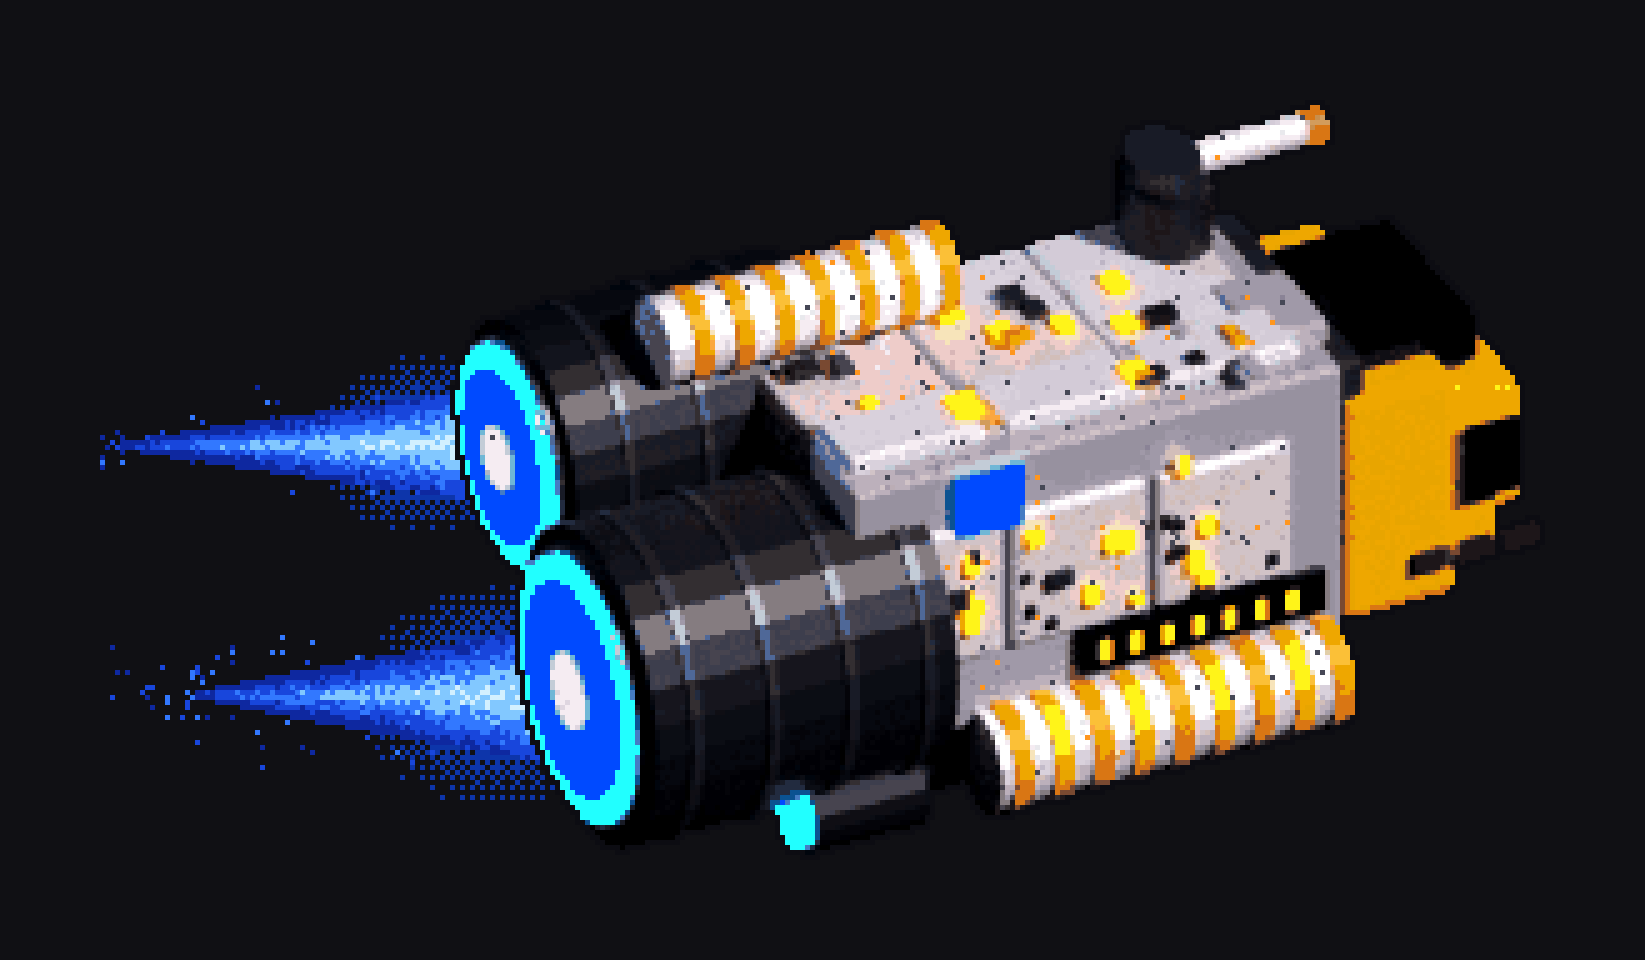
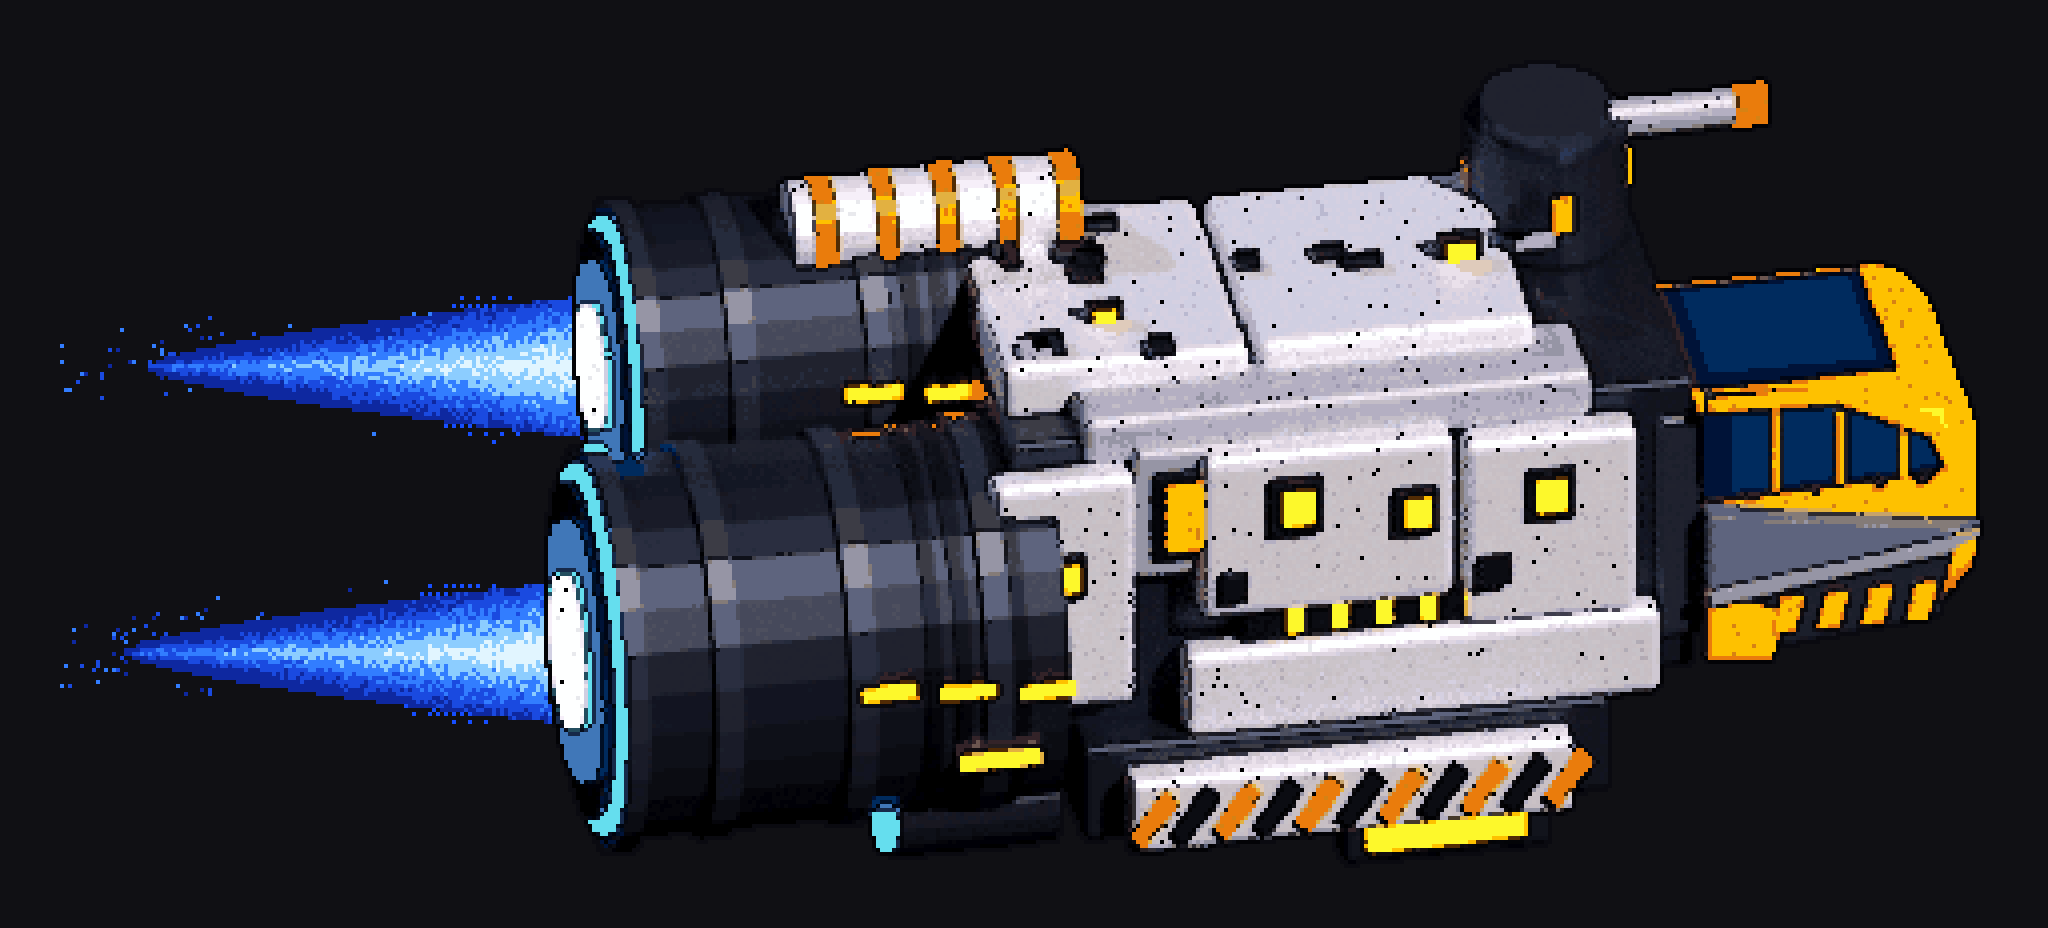
Hero ship rebuilt as three modules (cabin, mid hull, engines) with a shared camera; module review sheets
Claude-Session: https://claude.ai/code/session_01HcaWyD8ebB2wdmAhZqz26a

diff --git a/tools/assets/blender/ship_modules.py b/tools/assets/blender/ship_modules.py
@@ -1,0 +1,136 @@
+# blender -b -P ship_modules.py -- outdir
+# Hero freighter built as three modules (cabin, mid hull, rear engines) with ONE shared camera, so renders overlay exactly.
+import bpy, sys, math, random, bmesh
+OUT = sys.argv[sys.argv.index('--') + 1]
+bpy.ops.wm.read_factory_settings(use_empty=True)
+sc = bpy.context.scene; sc.render.engine = 'CYCLES'; sc.cycles.device = 'CPU'; sc.cycles.samples = 40; sc.cycles.use_denoising = False
+sc.view_settings.view_transform = 'Standard'; sc.render.film_transparent = True; sc.render.image_settings.color_mode = 'RGBA'
+sc.world = bpy.data.worlds.new('w'); sc.world.use_nodes = True; sc.world.node_tree.nodes['Background'].inputs[1].default_value = 0.0
+random.seed(21)
+def hexc(h): h = h.lstrip('#'); return tuple(pow(int(h[i:i + 2], 16) / 255, 2.2) for i in (0, 2, 4))
+def mat(col, metal=0.4, rough=0.55, emit=None, es=0.0):
+    m = bpy.data.materials.new('m'); m.use_nodes = True; b = m.node_tree.nodes['Principled BSDF']
+    b.inputs['Base Color'].default_value = (*(hexc(col) if isinstance(col, str) else col), 1); b.inputs['Metallic'].default_value = metal; b.inputs['Roughness'].default_value = rough
+    if emit: b.inputs['Emission Color'].default_value = (*hexc(emit), 1); b.inputs['Emission Strength'].default_value = es
+    return m
+def glow(c, s=6): return mat(c, 0, 0.3, c, s)
+PLATE = mat('#d9d9e6', 0.25, 0.6); PLATE2 = mat('#b3b3c6', 0.3, 0.6); GUN = mat('#1d1f28', 0.7, 0.45); GUN2 = mat('#343847', 0.75, 0.4); GUN3 = mat('#4a5062', 0.75, 0.35)
+YEL = mat('#f4c20f', 0.15, 0.5); YEL2 = mat('#d98c10', 0.15, 0.5); STEELB = mat('#7a88a6', 0.5, 0.4); BLK = mat('#0b0b11', 0.3, 0.6); ORG = mat('#ff8a14', 0.2, 0.5)
+AMB = glow('#ff8a14', 5); AMB2 = glow('#ffb43a', 4); RIM = glow('#2a8cff', 3.2); CORE = glow('#a8dcff', 5); GLASS = mat('#0b1826', 0.9, 0.1, '#123a60', 0.25)
+MOD = {'cabin': [], 'mid': [], 'eng': []}; cur = ['mid']
+def reg(o): MOD[cur[0]].append(o); return o
+def box(loc, size, m, bev=0.05, rot=(0, 0, 0)):
+    bpy.ops.mesh.primitive_cube_add(location=loc, rotation=rot); o = bpy.context.object; o.scale = [s / 2 for s in size]; bpy.ops.object.transform_apply(scale=True)
+    if bev: md = o.modifiers.new('b', 'BEVEL'); md.width = bev; md.segments = 3
+    o.data.materials.append(m); return reg(o)
+def cyl(loc, r, d, m, rot=(0, math.pi / 2, 0), v=28, r2=None):
+    if r2 is None: bpy.ops.mesh.primitive_cylinder_add(location=loc, radius=r, depth=d, vertices=v, rotation=rot)
+    else: bpy.ops.mesh.primitive_cone_add(location=loc, radius1=r, radius2=r2, depth=d, vertices=v, rotation=rot)
+    o = bpy.context.object; o.data.materials.append(m); return reg(o)
+def sph(loc, radii, m, seg=32):
+    bpy.ops.mesh.primitive_uv_sphere_add(location=loc, radius=1, segments=seg, ring_count=seg // 2); o = bpy.context.object; o.scale = radii; o.data.materials.append(m); bpy.ops.object.shade_smooth(); return reg(o)
+def wedge(loc, size, top, m, bev=0.04):
+    bpy.ops.mesh.primitive_cube_add(location=loc); o = bpy.context.object; o.scale = [s / 2 for s in size]; bpy.ops.object.transform_apply(scale=True)
+    me = o.data; bm = bmesh.new(); bm.from_mesh(me)
+    for v in bm.verts:
+        if v.co.z > 0: v.co.x *= top[0]; v.co.y *= top[1]
+    bm.to_mesh(me); bm.free()
+    if bev: md = o.modifiers.new('b', 'BEVEL'); md.width = bev; md.segments = 2
+    o.data.materials.append(m); return reg(o)
+def prism(pts, y0, y1, m, bev=0.02):
+    """extrude a side-view (x,z) polygon along Y from y0 to y1"""
+    me = bpy.data.meshes.new('pr'); o = bpy.data.objects.new('pr', me); bpy.context.collection.objects.link(o)
+    bm = bmesh.new(); a = [bm.verts.new((x, y0, z)) for x, z in pts]; b = [bm.verts.new((x, y1, z)) for x, z in pts]
+    bm.faces.new(a[::-1]); bm.faces.new(b)
+    for i in range(len(pts)): j = (i + 1) % len(pts); bm.faces.new((a[i], a[j], b[j], b[i]))
+    bmesh.ops.recalc_face_normals(bm, faces=bm.faces); bm.to_mesh(me); bm.free(); me.materials.append(m)
+    if bev: md = o.modifiers.new('b', 'BEVEL'); md.width = bev; md.segments = 2
+    return reg(o)
+def torus(loc, major, minor, m, rot, scale=(1, 1, 1)):
+    bpy.ops.mesh.primitive_torus_add(major_radius=major, minor_radius=minor, location=loc, rotation=rot, major_segments=40, minor_segments=10); o = bpy.context.object; o.scale = scale; o.data.materials.append(m); return reg(o)
+def window(x, y, z, w=0.3, h=0.3, face='-y'):
+    """dark recessed square with amber light (like the reference's small windows)"""
+    box((x, y, z), (w, 0.07, h), BLK, 0.01); box((x, y - 0.03, z), (w * 0.6, 0.05, h * 0.6), AMB, 0.005)
+def slab(loc, size, m=PLATE, bev=0.07): return box(loc, size, m, bev)
+
+# ================= ENGINES (rear) =================
+cur[0] = 'eng'
+def engine(cx, cy, cz, R, L, big=True):
+    cyl((cx, cy, cz), R, L, GUN2)                                   # barrel
+    for k in range(3): cyl((cx - L / 2 + 0.55 + k * 0.85, cy, cz), R * 1.04, 0.16, GUN3)           # three wide seam rings
+    for k in range(4): cyl((cx + L / 2 - 0.85 + k * 0.18, cy, cz), R * 1.02, 0.1, GUN)             # ridged collar near the hull
+    fx = cx - L / 2
+    cyl((fx - 0.03, cy, cz), R * 1.06, 0.14, GUN3)                  # bezel
+    cyl((fx - 0.12, cy, cz), R * 0.97, 0.05, RIM)                   # glowing rim
+    cyl((fx - 0.17, cy, cz), R * 0.89, 0.05, mat('#06101e', 0.6, 0.4))
+    cyl((fx - 0.22, cy, cz), R * 0.68, 0.05, glow('#1a4ee0', 2.6))
+    cyl((fx - 0.26, cy, cz), R * 0.4, 0.05, CORE)
+    for k in range(3):                                              # amber slots on the barrel side facing the camera
+        box((cx + 0.2 + k * 0.5, cy - R * 1.01, cz + 0.12 - k * 0.04), (0.34, 0.05, 0.07), AMB, 0.005)
+    box((cx + 0.9, cy - R * 1.0, cz - 0.35), (0.5, 0.05, 0.06), AMB2, 0.005)
+engine(-2.85, -0.62, -0.18, 1.0, 2.7)
+engine(-2.55, 1.05, 0.58, 0.8, 2.3)
+# pylon between engines and hull
+cyl((-1.1, 0.2, 0.35), 0.62, 0.9, GUN2, v=20); cyl((-1.1, 0.2, 0.35), 0.66, 0.1, GUN3, v=20)
+box((-0.9, -0.55, 0.62), (0.5, 0.12, 0.4), PLATE2, 0.03); box((-0.9, -0.62, 0.62), (0.3, 0.06, 0.24), AMB, 0.01)
+cyl((-2.0, -1.0, -1.1), 0.24, 1.0, GUN2, v=16); cyl((-2.55, -1.0, -1.1), 0.2, 0.1, RIM, v=16)   # little lower thruster
+
+# ================= MID HULL =================
+cur[0] = 'mid'
+box((0.4, 0.05, 0.1), (4.3, 2.0, 1.7), GUN2, 0.05); box((0.3, -0.3, -1.0), (3.3, 1.9, 0.55), GUN2, 0.05)                    # dark core visible in the gaps
+# top deck: two big plates + a smaller step
+slab((-0.95, 0.2, 1.08), (1.55, 1.7, 0.32)); slab((0.75, 0.2, 1.08), (1.75, 1.7, 0.32)); slab((0.3, -0.72, 0.95), (3.2, 0.62, 0.28), PLATE2)
+window(-1.0, -0.2, 1.24, 0.22, 0.22); box((-1.0, 0.3, 1.25), (0.2, 0.2, 0.05), BLK, 0.01); window(1.3, 0.1, 1.24, 0.28, 0.28)
+# monitor frame
+box((-0.55, -1.05, 0.55), (0.9, 0.14, 0.75), PLATE2, 0.05); box((-0.55, -1.13, 0.55), (0.66, 0.06, 0.52), GUN, 0.02); box((-0.55, -1.17, 0.55), (0.52, 0.04, 0.38), mat('#6a4a22', 0.2, 0.5, '#ff8a14', 1.6), 0.01)
+# side plates (camera side), staggered
+slab((-1.45, -1.06, 0.15), (0.9, 0.24, 1.35), PLATE, 0.07); slab((0.2, -1.1, 0.42), (1.6, 0.24, 0.95), PLATE, 0.07); slab((1.6, -1.08, 0.28), (1.1, 0.24, 1.1), PLATE, 0.07)
+window(-1.45, -1.22, 0.3, 0.24, 0.24); window(0.0, -1.25, 0.6, 0.32, 0.32); window(0.75, -1.25, 0.5, 0.26, 0.26); window(1.6, -1.2, 0.5, 0.3, 0.3)
+box((1.25, -1.25, 0.1), (0.18, 0.05, 0.18), BLK, 0.01); box((-0.4, -1.25, 0.15), (0.16, 0.05, 0.16), BLK, 0.01)
+# lower long plate + dark window strip + hazard plate
+slab((0.8, -1.1, -0.5), (3.0, 0.24, 0.5), PLATE, 0.07)
+box((0.9, -1.1, -0.12), (2.4, 0.1, 0.22), GUN, 0.02)
+for k in range(8): box((0.0 + k * 0.28, -1.17, -0.12), (0.1, 0.04, 0.14), AMB2 if k % 3 else AMB, 0.004)
+slab((0.3, -1.3, -1.05), (2.8, 0.32, 0.42), PLATE, 0.05)
+for k in range(11):
+    box((-0.95 + k * 0.26, -1.48, -1.05), (0.12, 0.03, 0.34), ORG if k % 2 == 0 else BLK, 0.003, rot=(0, 0.7, 0))
+box((0.9, -0.95, -1.28), (1.3, 0.9, 0.4), GUN2, 0.05); box((0.9, -1.4, -1.26), (1.0, 0.08, 0.28), mat('#ff9a1a', 0.1, 0.4, '#ff8a14', 3.0), 0.02)
+# turret + gun, striped rod, hazard cylinder
+cyl((2.0, 0.85, 1.28), 0.5, 0.6, GUN2, v=24, rot=(0, 0, 0)); cyl((2.0, 0.85, 1.62), 0.4, 0.14, GUN3, v=24, rot=(0, 0, 0))
+for k in range(4): box((2.0 + 0.45 * math.cos(k * 1.57), 0.85 + 0.45 * math.sin(k * 1.57), 1.28), (0.14, 0.14, 0.2), YEL, 0.01)
+cyl((2.75, 0.85, 1.55), 0.1, 1.0, PLATE2, v=12); cyl((3.28, 0.85, 1.55), 0.11, 0.2, mat('#d8242a', 0.2, 0.5, '#d8242a', 1.6), v=12)
+cyl((-1.9, 0.9, 1.35), 0.26, 1.7, PLATE, v=20)
+for k in range(5): cyl((-2.55 + k * 0.38, 0.9, 1.35), 0.275, 0.14, ORG, v=20)
+for i in range(16): box((random.uniform(-1.5, 1.8), random.uniform(-0.6, 0.9), 1.27), (random.uniform(0.08, 0.26), random.uniform(0.08, 0.2), 0.05), random.choice([BLK, GUN2, PLATE2]), 0.004)
+
+# ================= CABIN (head) =================
+cur[0] = 'cabin'
+# Cabin as seen from the side, like the reference: bands drawn as side-view polygons on the camera-facing face.
+body = box((3.35, 0.0, -0.02), (2.1, 1.95, 1.3), YEL, 0.4); body.modifiers['b'].segments = 8
+box((3.3, 0.05, 0.64), (1.25, 1.1, 0.05), GLASS, 0.02); box((3.3, 0.05, 0.665), (1.05, 0.9, 0.02), mat('#102a44', 0.8, 0.12, '#1c5088', 0.3), 0.01)
+prism([(2.6, 0.28), (2.6, 0.9), (3.45, 0.86), (4.05, 0.62), (4.18, 0.34)], -1.0, -1.08, GLASS, 0.03)     # sloped dark canopy glass
+prism([(2.75, 0.34), (2.75, 0.84), (3.4, 0.8), (3.95, 0.58), (4.05, 0.38)], -1.08, -1.1, mat('#102a44', 0.8, 0.12, '#1c5088', 0.3), 0.02)
+for x0 in (3.0, 3.4, 3.8): prism([(x0, 0.34), (x0 + 0.06, 0.34), (x0 + 0.06, 0.86 - (x0 - 3.0) * 0.28), (x0, 0.88 - (x0 - 3.0) * 0.28)], -1.1, -1.14, YEL, 0.01)   # yellow ribs
+prism([(2.6, 0.9), (3.45, 0.9), (4.05, 0.66), (4.2, 0.4), (4.1, 0.34), (3.98, 0.58), (3.4, 0.82), (2.6, 0.84)], -1.08, -1.16, YEL, 0.015)  # yellow frame along the top
+prism([(2.6, -0.2), (2.6, 0.24), (4.32, 0.0)], -1.0, -1.16, STEELB, 0.02)                              # steel triangle pointing at the nose
+prism([(2.6, -0.2), (4.32, 0.0), (4.1, -0.1), (2.6, -0.28)], -1.16, -1.2, mat('#c0cae0', 0.5, 0.3), 0.01)  # its lit edge
+prism([(2.6, -0.62), (2.6, -0.24), (4.18, -0.08), (4.05, -0.52)], -1.0, -1.12, GUN3, 0.03)             # blue-grey lower panel
+for k in range(4): prism([(3.0 + k * 0.28, -0.5), (3.14 + k * 0.28, -0.5), (3.2 + k * 0.28, -0.3), (3.06 + k * 0.28, -0.3)], -1.12, -1.15, YEL, 0.004)   # hazard scuffs
+prism([(2.6, -0.62), (2.6, -0.22), (3.1, -0.4), (3.0, -0.66)], -1.0, -1.14, YEL, 0.02)                  # yellow triangle panel at the rear-bottom
+box((2.45, 0.0, 0.1), (0.3, 2.0, 1.3), GUN3, 0.05)                                                      # bulkhead
+
+# ================= parent everything, shorten X like the compact reference =================
+bpy.ops.object.empty_add(location=(0, 0, 0)); em = bpy.context.object
+for o in [o for o in bpy.data.objects if o.type == 'MESH']: o.parent = em
+em.scale = (0.92, 1.0, 1.12)
+bpy.ops.object.light_add(type='SUN'); l = bpy.context.object; l.data.energy = 4.4; l.data.color = (1, 0.94, 0.86); l.rotation_euler = (math.radians(50), 0, math.radians(35))
+bpy.ops.object.light_add(type='SUN'); l = bpy.context.object; l.data.energy = 1.4; l.data.color = (0.5, 0.65, 1.0); l.rotation_euler = (math.radians(60), 0, math.radians(-140))
+bpy.ops.object.camera_add(); cam = bpy.context.object; cam.data.type = 'ORTHO'; cam.data.ortho_scale = 12.2; sc.camera = cam
+e = math.radians(31); y = math.radians(-11); c = (-0.1, 0, 0.1); d = 20
+cam.location = (c[0] + d * math.sin(y) * math.cos(e), c[1] - d * math.cos(y) * math.cos(e), c[2] + d * math.sin(e)); cam.rotation_euler = (math.radians(90 - 31), 0, y)
+sc.render.resolution_x = 1024; sc.render.resolution_y = 1024
+def show(names):
+    for k, objs in MOD.items():
+        for o in objs: o.hide_render = k not in names
+for name, names in (('all', ('cabin', 'mid', 'eng')), ('cabin', ('cabin',)), ('mid', ('mid',)), ('eng', ('eng',))):
+    show(names); sc.render.filepath = f'{OUT}/ship_{name}.png'; bpy.ops.render.render(write_still=True); print('rendered', name, flush=True)

diff --git a/tools/assets/forge/ship_pixel.py b/tools/assets/forge/ship_pixel.py
@@ -1,0 +1,79 @@
+"""Module renders (cabin / mid / engines / all) -> aligned pixel sprites + jets. Usage: ship_pixel.py [height]"""
+import sys, os, random
+import numpy as np
+from scipy import ndimage
+from PIL import Image, ImageEnhance, ImageFilter
+H = int(sys.argv[1]) if len(sys.argv) > 1 else 200
+HERE = os.path.dirname(__file__); SRC = os.path.join(HERE, '..', 'out', 'ship'); LIB = os.path.join(HERE, '..', 'library'); SC = os.path.join(HERE, '..', 'scenes')
+raw = {n: Image.open(os.path.join(SRC, f'ship_{n}.png')).convert('RGBA') for n in ('all', 'cabin', 'mid', 'eng')}
+bbox = raw['all'].getbbox(); w0 = bbox[2] - bbox[0]; h0 = bbox[3] - bbox[1]; sc = H / h0; W = round(w0 * sc)
+def px(im, colors=48, pal=None):
+    im = im.crop(bbox).resize((W, H), Image.BOX); a = im.split()[3].point(lambda v: 255 if v > 110 else 0)
+    rgb = ImageEnhance.Contrast(ImageEnhance.Color(im.convert('RGB')).enhance(1.25)).enhance(1.1)
+    rgb = rgb.quantize(colors=colors, method=Image.MEDIANCUT, dither=Image.NONE) if pal is None else rgb.quantize(palette=pal, dither=Image.NONE)
+    return rgb, a
+rgb_all, a_all = px(raw['all']); pal = rgb_all
+def outline(rgb, a):
+    out = Image.new('RGBA', (W + 2, H + 2), (0, 0, 0, 0)); m = Image.new('L', (W + 2, H + 2), 0); m.paste(a, (1, 1)); m = m.filter(ImageFilter.MaxFilter(3))
+    ol = Image.new('RGBA', out.size, (10, 10, 16, 255)); ol.putalpha(m); out.alpha_composite(ol); im = rgb.convert('RGB').convert('RGBA'); im.putalpha(a); out.alpha_composite(im, (1, 1)); return out
+rng = random.Random(7)
+def scuff(im):
+    p = im.load()
+    for y in range(im.height):
+        for x in range(im.width):
+            r, g, b, a = p[x, y]
+            if a and r > 165 and g > 165 and b > 165:
+                v = rng.random()
+                if v < 0.010: p[x, y] = (84, 86, 104, 255)
+                elif v < 0.040: p[x, y] = (r - 22, g - 22, b - 18, 255)
+            elif a and r > 190 and 120 < g < 215 and b < 90:      # yellow plates: orange speckle
+                if rng.random() < 0.03: p[x, y] = (214, 130, 20, 255)
+    return im
+def seams(im):
+    """dark pixel seam on the darker side of strong colour steps -> crisp panel lines like the reference"""
+    p = im.load(); w, h = im.size; lum = lambda c: 0.3 * c[0] + 0.59 * c[1] + 0.11 * c[2]; mark = []
+    for y in range(h - 1):
+        for x in range(w - 1):
+            c = p[x, y]
+            if not c[3]: continue
+            for dx, dy in ((1, 0), (0, 1)):
+                d = p[x + dx, y + dy]
+                if d[3] and abs(lum(c) - lum(d)) > 52: mark.append((x, y) if lum(c) < lum(d) else (x + dx, y + dy))
+    for x, y in mark: r, g, b, a = p[x, y]; p[x, y] = (int(r * 0.35), int(g * 0.35), int(b * 0.4), 255)
+    return im
+sprites = {}
+for n in ('all', 'cabin', 'mid', 'eng'):
+    rgb, a = px(raw[n], pal=pal) if n != 'all' else (rgb_all, a_all)
+    sprites[n] = seams(scuff(outline(rgb, a)))
+# engine centres: bright core blobs in the engine-only render
+e = np.asarray(raw['eng']).astype(int); m = (e[..., 3] > 200) & (e[..., 2] > 225) & (e[..., 1] > 200) & (e[..., 0] > 150); lab, n = ndimage.label(m)
+blobs = sorted([(ndimage.sum(m, lab, i), ndimage.center_of_mass(lab == i)) for i in range(1, n + 1)], reverse=True)[:2]
+cen = [((c[1] - bbox[0]) * sc + 1, (c[0] - bbox[1]) * sc + 1, H * 0.085) for s_, c in blobs]
+PADL = 120
+def flames(base):
+    cv = Image.new('RGBA', (base.width + PADL, base.height), (0, 0, 0, 0)); q = cv.load(); r2 = random.Random(5)
+    cols = [(225, 245, 255), (140, 205, 255), (50, 125, 255), (26, 74, 224), (14, 40, 160)]
+    for cx, cy, r in cen:
+        cx += PADL; L = 110
+        for x in range(max(0, int(cx) - L), int(cx)):
+            t = min(1.0, max(0.0, (cx - x) / L)); hw = r * (1 - t) ** 0.7 + 1.0
+            for y in range(int(cy - hw) - 1, int(cy + hw) + 2):
+                d = abs(y - cy) / (hw + 1e-6)
+                if d > 1 or not (0 <= y < cv.height): continue
+                lev = d * 0.75 + t * 0.55 + r2.uniform(-0.12, 0.12); q[x, y] = cols[min(4, max(0, int(lev * 5)))] + (255,)
+        for _ in range(130):
+            t = r2.uniform(0.3, 1.3); x = int(cx - t * L); y = int(cy + r2.gauss(0, r * 0.5 * (1 - min(t, 1) * 0.45)))
+            if 0 <= x < cv.width and 0 <= y < cv.height and q[x, y][3] == 0: q[x, y] = r2.choice(cols[2:]) + (255,)
+    arr = np.asarray(cv).astype(float); yy, xx = np.mgrid[:cv.height, :cv.width]
+    bay = np.tile(np.array([[0, 8, 2, 10], [12, 4, 14, 6], [3, 11, 1, 9], [15, 7, 13, 5]]) / 16.0, (cv.height // 4 + 1, cv.width // 4 + 1))[:cv.height, :cv.width]
+    for cx, cy, r in cen:
+        d = np.sqrt((xx - cx - PADL + 26) ** 2 + ((yy - cy) * 1.25) ** 2) / (r * 3.4); k = np.clip(1 - d, 0, 1) ** 2; k = np.clip(np.floor(k * 3 + bay) / 3, 0, 1); em = (arr[..., 3] == 0) & (k > 0.34)
+        arr[..., 0][em] = 22; arr[..., 1][em] = 78; arr[..., 2][em] = 255; arr[..., 3][em] = 255
+    cv = Image.fromarray(arr.astype(np.uint8), 'RGBA'); cv.alpha_composite(base, (PADL, 0)); return cv
+full = flames(sprites['all']); full.save(os.path.join(LIB, 'ship_hero.png'))
+def show(im, k=4, bgc=(16, 16, 20)):
+    b = Image.new('RGBA', (im.width + 30, im.height + 30), bgc + (255,)); b.alpha_composite(im, (15, 15)); return b.resize((b.width * k, b.height * k), Image.NEAREST).convert('RGB')
+show(full).save(os.path.join(SC, 'ship_hero_preview.png'))
+for n in ('cabin', 'mid', 'eng'):
+    sp_ = sprites[n]; bb = sp_.getbbox(); show(sp_.crop(bb), 6).save(os.path.join(SC, f'ship_mod_{n}.png'))
+print(full.size, sprites['all'].size)
